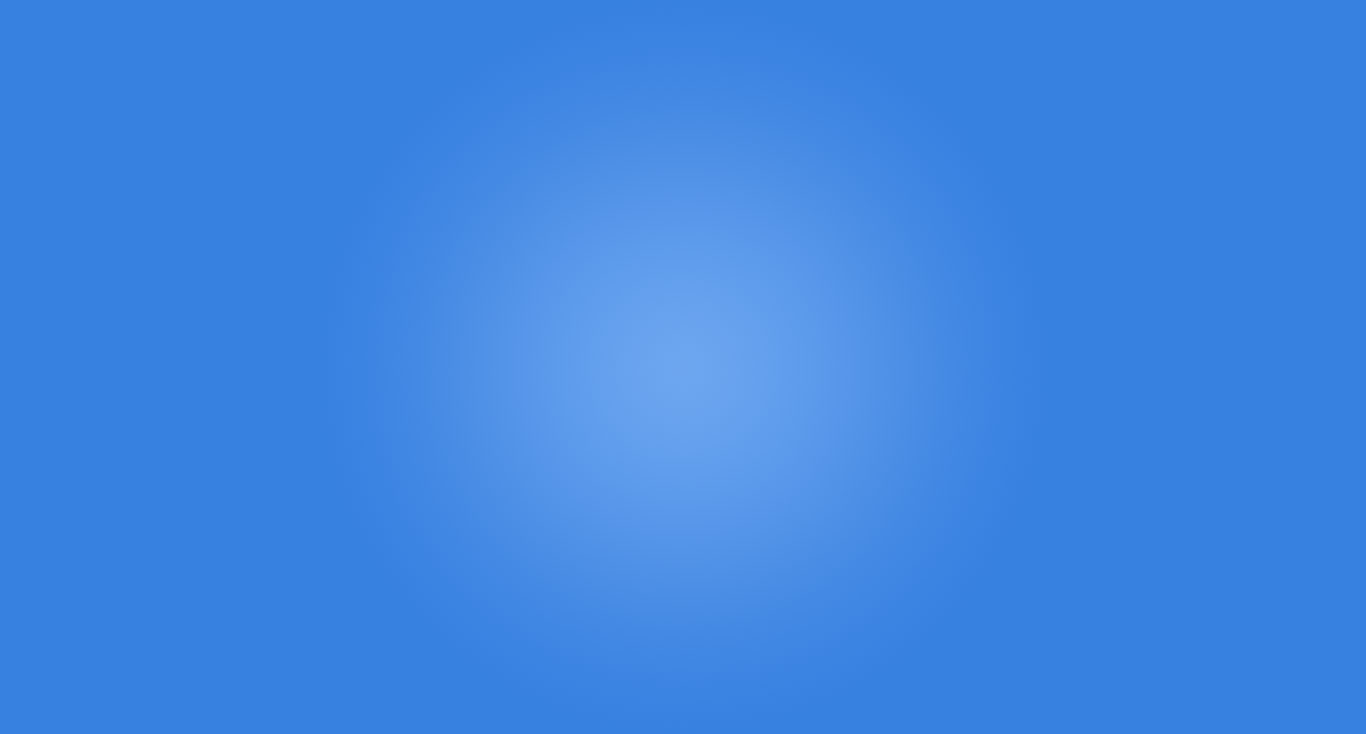
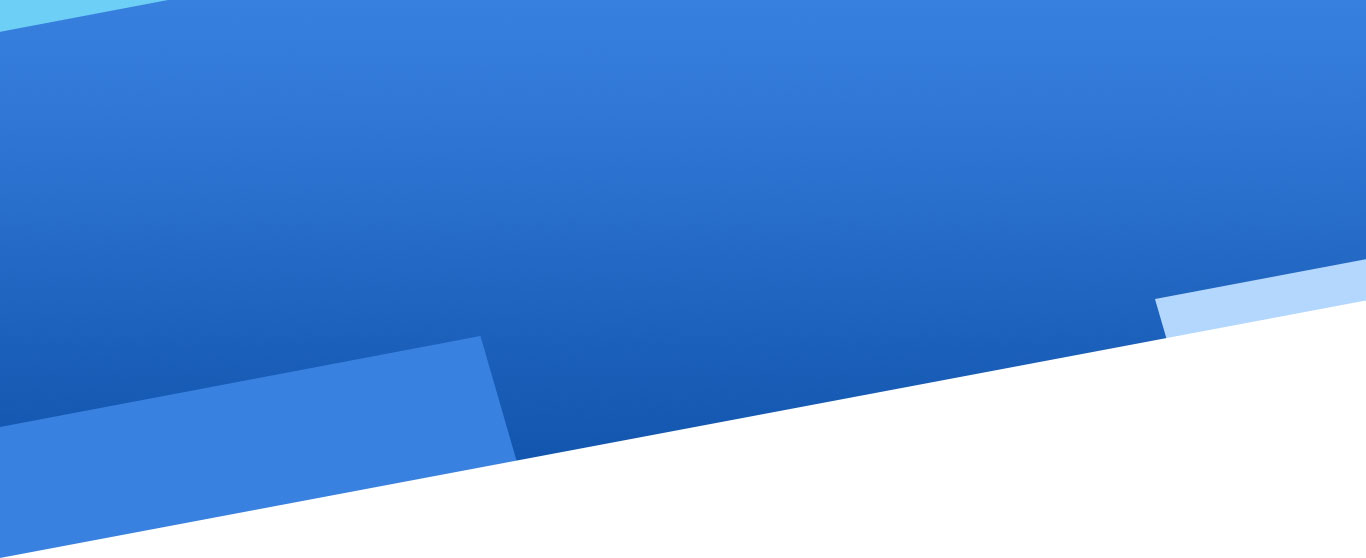
redesigning some layout

diff --git a/index.html b/index.html
@@ -10,58 +10,98 @@
 	<body>
 		<aside class="bg-color-blue">
 			<div class="container flex h-space-between">
-				<span class="text-color-white">jomarialang31@gmail.com</span>
+				<a href="mailto:jomarialang31@gmail.com" class="text-color-white"
+					>jomarialang31@gmail.com</a
+				>
 				<ul class="aside-links flex">
 					<li>
-						<a class="text-color-white" href="https://github.com/chipchap31"
+						<a
+							class="text-color-white"
+							target="_blank"
+							href="https://github.com/chipchap31"
 							>github</a
 						>
 					</li>
 					<li>
-						<a class="text-color-white" href="https://github.com/chipchap31"
+						<a
+							class="text-color-white"
+							target="_blank"
+							href="https://github.com/chipchap31"
 							>linkedIn</a
 						>
 					</li>
 				</ul>
 			</div>
 		</aside>
-
+		<header>
+			<div class="container flex h-space-between v-center">
+				<a href="index.html" class="logo">logo</a>
+				<ul class="primary-nav flex">
+					<li><a href="#about" class="text-color-white">about</a></li>
+					<li><a href="#works" class="text-color-white">works</a></li>
+					<li><a href="#contact" class="text-color-white">contact</a></li>
+				</ul>
+			</div>
+		</header>
 		<section id="hero">
-			<div class="container">
-				<header>
-					header
-				</header>
-				<h1 class="text-color-white">Full Stack Developer</h1>
-				<p class="text-color-white">
-					Lorem ipsum dolor sit amet, consectetur adipiscing elit, sed do
-					eiusmod tempor incididunt ut labore et dolore magna aliqua. Quis ipsum
-					suspendisse ultrices gravida. commodo viverra maecenas accumsan lacus
-					vel facilisis.
-				</p>
+			<div class="container flex v-center h-space-between">
+				<div class="col">
+					<h1 class="text-color-white">Full Stack Developer</h1>
+					<p class="text-color-white">
+						Lorem ipsum dolor sit amet, consectetur adipiscing elit, sed do
+						eiusmod tempor incididunt ut labore et dolore magna aliqua.
+					</p>
+					<a href="#project" class="button button-primary">Works</a>
+				</div>
+				<img src="assets/images/portrait.png" />
 			</div>
 		</section>
-		<section id="about" class="bg-color-yellow ">
+		<section id="about">
 			<div class="container flex h-space-between">
-				<img src="assets/images/portrait.jpg" />
 				<div class="col">
-					<h2 class="text-color-white">about</h2>
-					<p class="text-color-white">
+					<h2 class="text-color-blue">about</h2>
+					<p>
 						Lorem ipsum dolor sit amet, consectetur adipiscing elit, sed do
 						eiusmod tempor incididunt ut labore et dolore magna aliqua. Quis
 						ipsum suspendisse ultrices gravida. Risus commodo viverra maecenas
 						accumsan lacus vel facilisis.
 					</p>
-					<p class="text-color-white">
+					<p>
 						Lorem ipsum dolor sit amet, consectetur adipiscing elit, sed do
 						eiusmod tempor incididunt ut labore et dolore magna aliqua. Quis
 						ipsum suspendisse ultrices gravida. Risus commodo viverra maecenas
 						accumsan lacus vel facilisis.
 					</p>
-					<a class="button button-primary" href="#">Download CV</a>
+					<a class="button button-primary" href="#">View CV</a>
 				</div>
 			</div>
 		</section>
 
+		<section id="project">
+			<div class="container">
+				<h2>recent projects</h2>
+				<div class="row flex h-space-around">
+					<figure class="project-item">
+						<img src="assets/images/placeholder.jpg" alt="" />
+					</figure>
+					<figure class="project-item">
+						<img src="assets/images/placeholder.jpg" alt="" />
+					</figure>
+					<figure class="project-item">
+						<img src="assets/images/placeholder.jpg" alt="" />
+					</figure>
+					<figure class="project-item">
+						<img src="assets/images/placeholder.jpg" alt="" />
+					</figure>
+					<figure class="project-item">
+						<img src="assets/images/placeholder.jpg" alt="" />
+					</figure>
+					<figure class="project-item">
+						<img src="assets/images/placeholder.jpg" alt="" />
+					</figure>
+				</div>
+			</div>
+		</section>
 		<section id="contact" class="bg-color-lightblue">
 			<div class="container">
 				<h2 class="text-color-white">contact me</h2>
@@ -74,7 +114,7 @@
 							</div>
 							<div class="col">
 								<p>jomarialang31@gmail.com</p>
-								<p>+353851790143</p>
+								<p>+353 851790143</p>
 							</div>
 						</div>
 

diff --git a/assets/style/style.css b/assets/style/style.css
@@ -29,6 +29,9 @@ button {
 	cursor: pointer;
 	font-size: 16px;
 }
+figure {
+	margin: 0;
+}
 /********************* typo */
 h1 {
 	font-size: 48px;
@@ -39,6 +42,9 @@ h2 {
 /********************* colors */
 .text-color-white {
 	color: white;
+}
+.text-color-blue {
+	color: #0d50a8;
 }
 .bg-color-blue {
 	background-color: #0d50a8;
@@ -63,6 +69,9 @@ h2 {
 .h-space-between {
 	justify-content: space-between;
 }
+.h-space-around {
+	justify-content: space-around;
+}
 .v-center {
 	align-items: center;
 }
@@ -79,11 +88,10 @@ h2 {
 	display: inline-block;
 	transition: 200ms ease-in-out;
 }
+
 .button-primary {
-	background-color: #3981e0;
-}
-.button-primary:hover {
-	background-color: #0d50a8;
+	background-color: #e8bc1b;
+	padding: 16px 80px;
 }
 
 /********************* form */
@@ -100,24 +108,55 @@ h2 {
 aside {
 	padding: 5px;
 }
-aside .aside-links li:not(:last-child) {
-	margin-right: 20px;
+aside .aside-links li {
+	margin-left: 20px;
+}
+aside a {
+	font-size: 12px;
+}
+
+/********************* header */
+header {
+	width: 100%;
+	position: absolute;
+	top: 70px;
+	left: 0;
+}
+header .primary-nav li {
+	margin-left: 20px;
+}
+header .primary-nav li a {
+	text-decoration: none;
+	font-size: 18px;
+	font-weight: 700;
+	text-transform: uppercase;
+	transition: 200ms;
+}
+header .primary-nav li a:hover {
+	color: #e8bc1b;
 }
 /********************* hero */
 
 #hero {
 	background-image: url("../images/hero.jpg");
-	background-size: cover;
+	background-size: 100% 100%;
 	background-repeat: no-repeat;
-	padding: 100px 0;
+}
+#hero .container {
+	height: 75vh;
+}
+#hero .col {
+	max-width: 500px;
+}
+#hero .button {
+	margin-top: 50px;
+}
+#hero img {
+	transform: translateY(180px);
 }
 /********************* about */
-
 #about {
-	padding-top: 100px;
-}
-#about h2 {
-	margin-top: 100px;
+	padding: 50px 0;
 }
 #about .col {
 	max-width: 650px;
@@ -127,11 +166,41 @@ aside .aside-links li:not(:last-child) {
 	margin-top: 40px;
 }
 
+#project {
+	padding: 100px 0;
+}
+#project h2 {
+	text-align: center;
+}
+#project .container {
+	max-width: 1200px;
+}
+#project .row {
+	flex-wrap: wrap;
+}
+#project .project-item {
+	background-image: url("../images/work-item.jpg");
+	margin-top: 50px;
+	padding: 10px;
+	max-width: 300px;
+	background-size: cover;
+	background-repeat: no-repeat;
+	opacity: 0.7;
+	cursor: pointer;
+}
+#project .project-item:hover {
+	opacity: 1;
+}
+#project .project-item img {
+	width: 100%;
+}
+
 /********************* contact */
 
 #contact {
 	padding: 100px 0;
 }
+
 #contact .personal-info {
 	width: 350px;
 }
